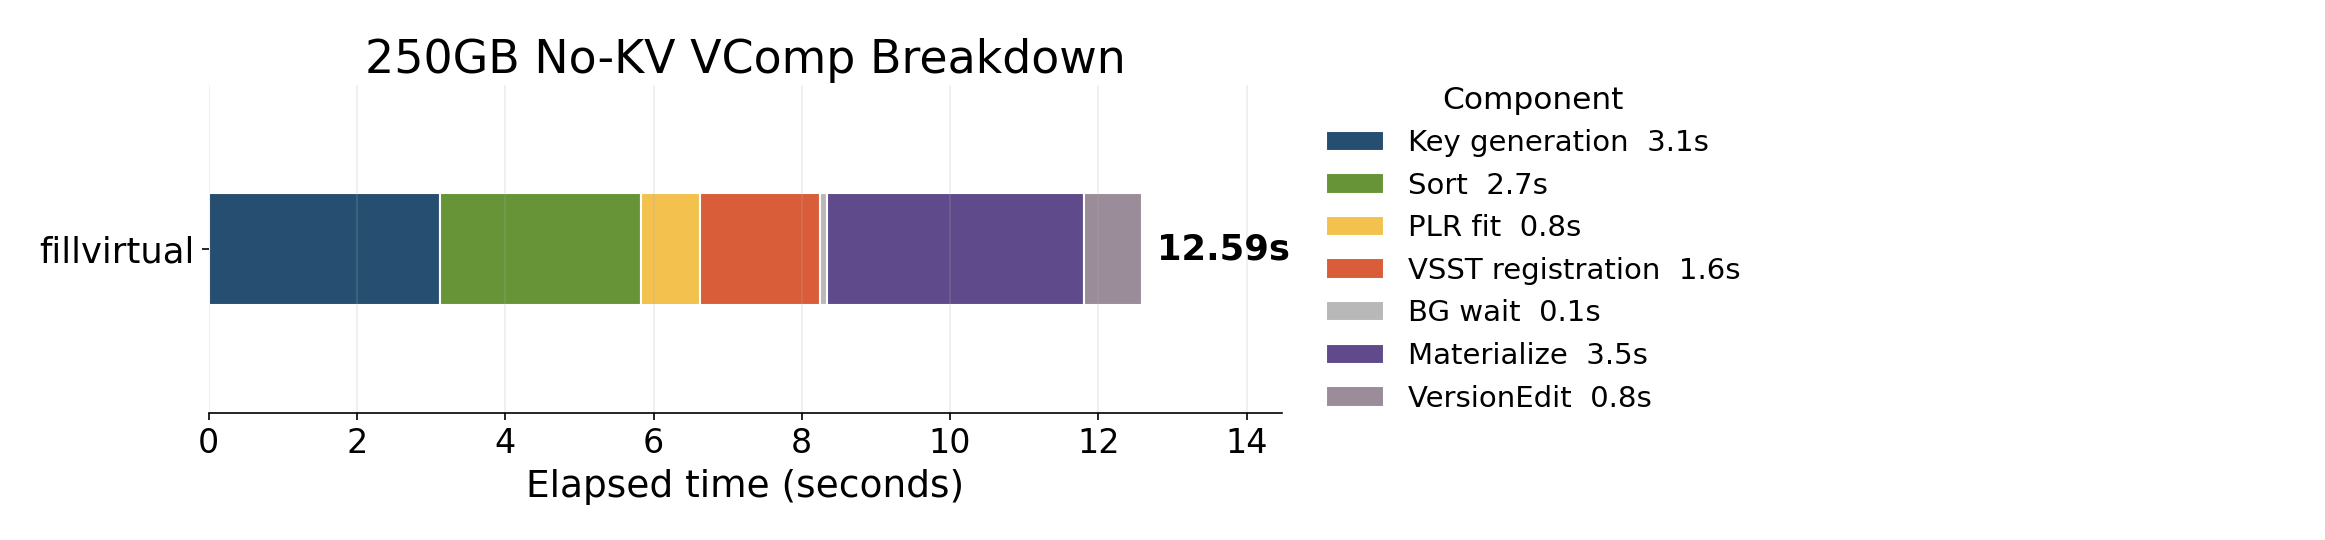
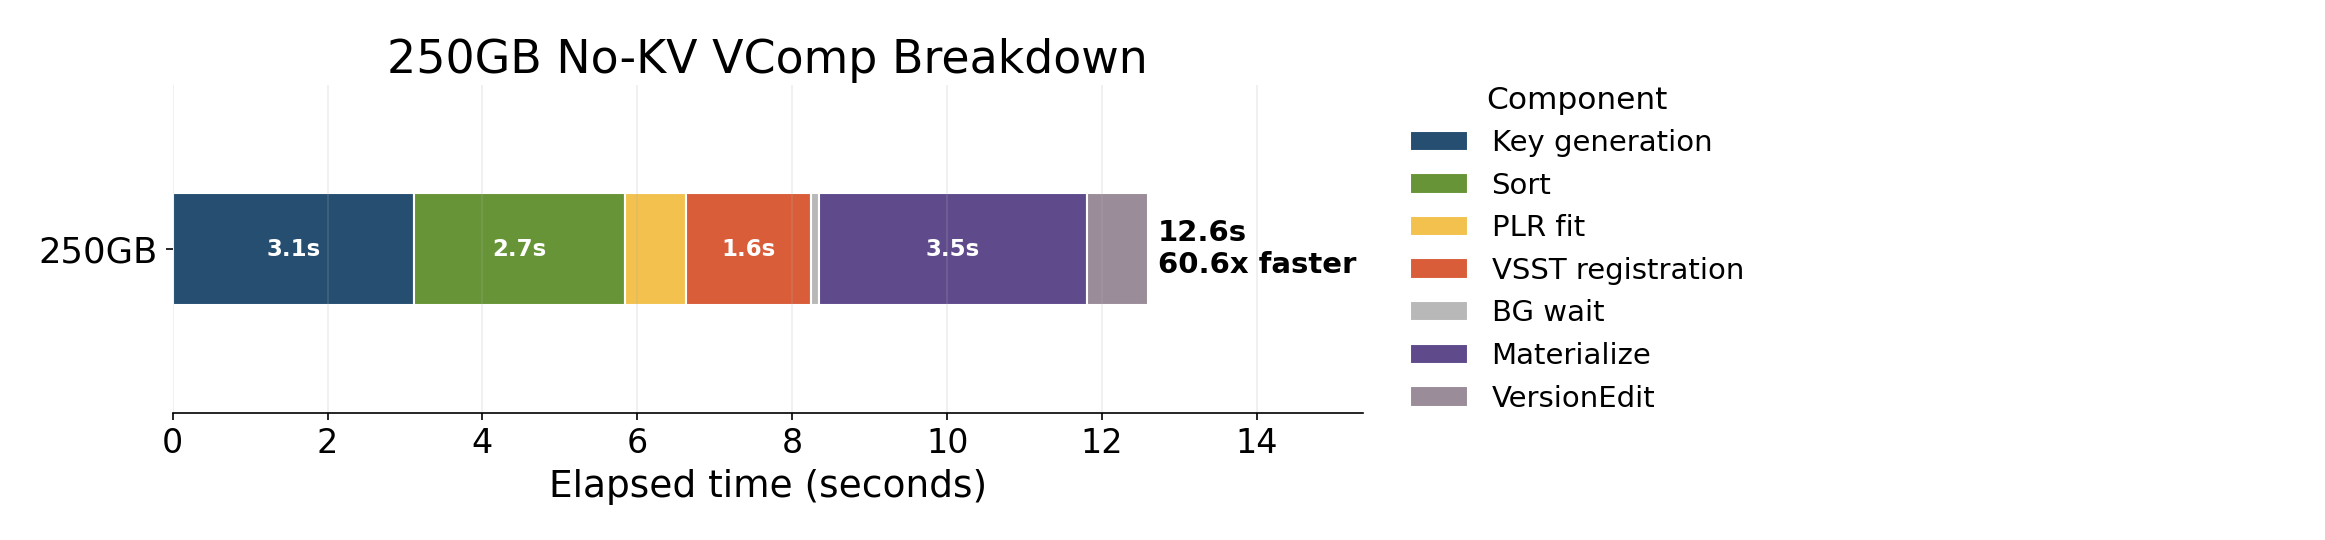
Add multi-scale vcomp breakdown plots

diff --git a/experiments/plot_nokv_vcomp_breakdown.py b/experiments/plot_nokv_vcomp_breakdown.py
@@ -1,5 +1,5 @@
 #!/usr/bin/env python3
-"""Plot 250GB no-KV vcomp breakdown."""
+"""Plot no-KV vcomp breakdowns from existing load logs."""
 
 import os
 import re
@@ -9,8 +9,36 @@ import matplotlib.pyplot as plt
 
 ROOT = os.path.dirname(__file__)
 LOG_LOADS = os.path.join(ROOT, "log_loads")
-BASELINE_DIR = "baseline_260414_1305_250gb"
-VCOMP_DIR = "vcomp_260414_1648_250gb"
+RUNS = [
+    {
+        "label": "250GB",
+        "slug": "250gb",
+        "baseline_dir": "baseline_260414_1305_250gb",
+        "vcomp_dir": "vcomp_260414_1648_250gb",
+    },
+    {
+        "label": "1TB",
+        "slug": "1tb",
+        "baseline_dir": "baseline_260408_0639_1000gb",
+        "vcomp_dir": "vcomp_260414_1152_1000gb",
+    },
+    {
+        "label": "10TB",
+        "slug": "10tb",
+        "baseline_dir": "baseline_260430_2232_10240gb",
+        "vcomp_dir": "vcomp_260501_1239_10240gb",
+    },
+]
+
+COMPONENTS = [
+    ("keygen", "Key generation", "#254e70"),
+    ("sort", "Sort", "#679436"),
+    ("plr_fit", "PLR fit", "#f2c14e"),
+    ("register", "VSST registration", "#d95d39"),
+    ("wait", "BG wait", "#b8b8b8"),
+    ("sst_write", "Materialize", "#5f4b8b"),
+    ("version_edit", "VersionEdit", "#9a8c98"),
+]
 
 
 def read_log(dirname):
@@ -63,32 +91,24 @@ def parse_vcomp(text):
 
 def fmt_seconds(seconds):
     if seconds < 60:
-        return f"{seconds:.0f}s"
+        return f"{seconds:.1f}s"
     if seconds < 3600:
-        return f"{seconds / 60:.0f}m"
+        return f"{seconds / 60:.1f}m"
     return f"{seconds / 3600:.1f}h"
 
 
-def main():
-    baseline = parse_baseline_seconds(read_log(BASELINE_DIR))
-    vcomp = parse_vcomp(read_log(VCOMP_DIR))
-    speedup = baseline / vcomp["total"]
+def load_run(run):
+    baseline = parse_baseline_seconds(read_log(run["baseline_dir"]))
+    vcomp = parse_vcomp(read_log(run["vcomp_dir"]))
+    return {
+        **run,
+        "baseline": baseline,
+        "vcomp": vcomp,
+        "speedup": baseline / vcomp["total"],
+    }
 
-    print(
-        f"250 GB baseline={baseline:.3f}s "
-        f"vcomp={vcomp['total']:.3f}s speedup={speedup:.1f}x"
-    )
 
-    components = [
-        ("keygen", "Key generation", "#254e70"),
-        ("sort", "Sort", "#679436"),
-        ("plr_fit", "PLR fit", "#f2c14e"),
-        ("register", "VSST registration", "#d95d39"),
-        ("wait", "BG wait", "#b8b8b8"),
-        ("sst_write", "Materialize", "#5f4b8b"),
-        ("version_edit", "VersionEdit", "#9a8c98"),
-    ]
-
+def configure_style():
     plt.rcParams.update({
         "font.size": 17,
         "axes.titlesize": 22,
@@ -98,44 +118,62 @@ def main():
         "legend.fontsize": 14,
         "legend.title_fontsize": 15,
     })
-    fig, ax = plt.subplots(figsize=(15.5, 3.6))
 
+
+def draw_bar(ax, row, show_legend):
     y = 0
     left = 0.0
-    for name, label, color in components:
+    vcomp = row["vcomp"]
+    for name, label, color in COMPONENTS:
         seconds = vcomp[name]
         ax.barh(
             y,
             seconds,
             height=0.34,
             left=left,
-            label=f"{label}  {seconds:.1f}s",
+            label=f"{label}" if show_legend else None,
             color=color,
             edgecolor="white",
             linewidth=1.0,
         )
+        if seconds >= vcomp["total"] * 0.08:
+            ax.text(
+                left + seconds / 2,
+                y,
+                fmt_seconds(seconds),
+                ha="center",
+                va="center",
+                fontsize=11,
+                color="white",
+                fontweight="bold",
+            )
         left += seconds
 
     ax.text(
-        vcomp["total"] + 0.2,
+        vcomp["total"] * 1.01,
         y,
-        f"{vcomp['total']:.2f}s",
+        f"{fmt_seconds(vcomp['total'])}\n{row['speedup']:.1f}x faster",
         ha="left",
         va="center",
-        fontsize=17,
+        fontsize=14,
         fontweight="bold",
     )
 
-    ax.set_title("250GB No-KV VComp Breakdown")
-    ax.set_xlabel("Elapsed time (seconds)")
     ax.set_yticks([y])
-    ax.set_yticklabels(["fillvirtual"])
-    ax.set_xlim(0, vcomp["total"] * 1.15)
+    ax.set_yticklabels([row["label"]])
+    ax.set_xlim(0, vcomp["total"] * 1.22)
     ax.set_ylim(-0.5, 0.5)
     ax.grid(axis="x", alpha=0.22)
     ax.spines["top"].set_visible(False)
     ax.spines["right"].set_visible(False)
     ax.spines["left"].set_visible(False)
+
+
+def plot_single(row):
+    fig, ax = plt.subplots(figsize=(15.5, 3.6))
+    draw_bar(ax, row, show_legend=True)
+    ax.set_title(f"{row['label']} No-KV VComp Breakdown")
+    ax.set_xlabel("Elapsed time (seconds)")
     ax.legend(
         title="Component",
         loc="center left",
@@ -145,9 +183,46 @@ def main():
     )
     fig.tight_layout(rect=[0.0, 0.0, 0.78, 1.0])
 
-    out = os.path.join(LOG_LOADS, "nokv_vcomp_250gb_breakdown.png")
+    out = os.path.join(LOG_LOADS, f"nokv_vcomp_{row['slug']}_breakdown.png")
     fig.savefig(out, dpi=150)
+    plt.close(fig)
     print(f"Saved: {out}")
+
+
+def plot_multi(rows):
+    fig, axes = plt.subplots(len(rows), 1, figsize=(15.5, 7.5))
+    for i, (ax, row) in enumerate(zip(axes, rows)):
+        draw_bar(ax, row, show_legend=(i == 0))
+        ax.set_xlabel("Elapsed time (seconds)")
+    fig.suptitle("No-KV VComp Breakdown Across Scales", y=0.98)
+    handles, labels = axes[0].get_legend_handles_labels()
+    fig.legend(
+        handles,
+        labels,
+        title="Component",
+        loc="lower center",
+        ncol=4,
+        frameon=False,
+        bbox_to_anchor=(0.5, 0.0),
+    )
+    fig.tight_layout(rect=[0.0, 0.1, 1.0, 0.94])
+    out = os.path.join(LOG_LOADS, "nokv_vcomp_breakdown_250gb_1tb_10tb.png")
+    fig.savefig(out, dpi=150)
+    plt.close(fig)
+    print(f"Saved: {out}")
+
+
+def main():
+    configure_style()
+    rows = [load_run(run) for run in RUNS]
+    for row in rows:
+        print(
+            f"{row['label']} baseline={row['baseline']:.3f}s "
+            f"vcomp={row['vcomp']['total']:.3f}s "
+            f"speedup={row['speedup']:.1f}x"
+        )
+        plot_single(row)
+    plot_multi(rows)
 
 
 if __name__ == "__main__":
